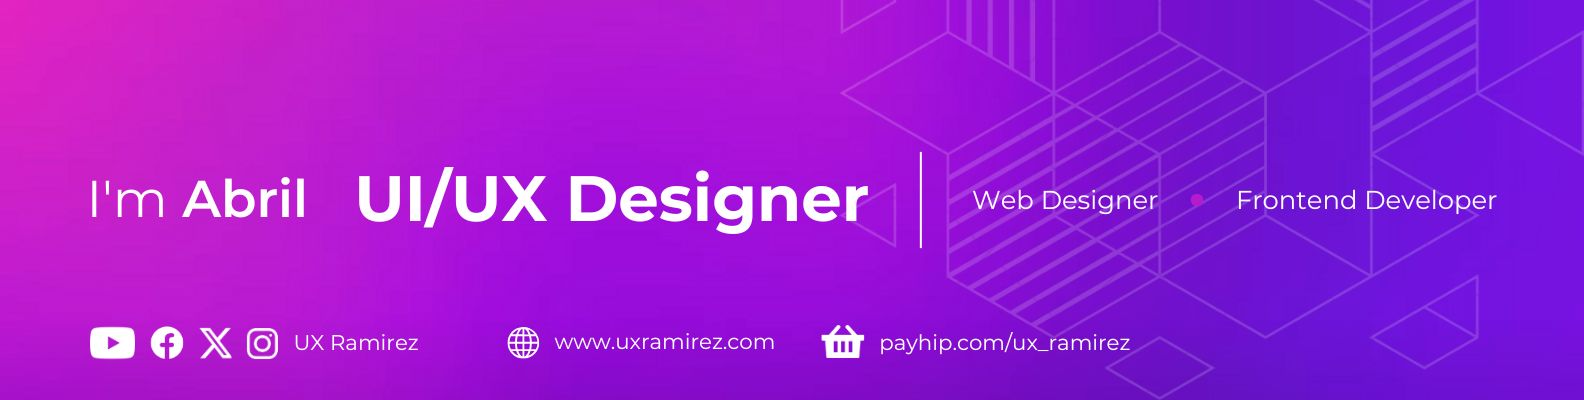
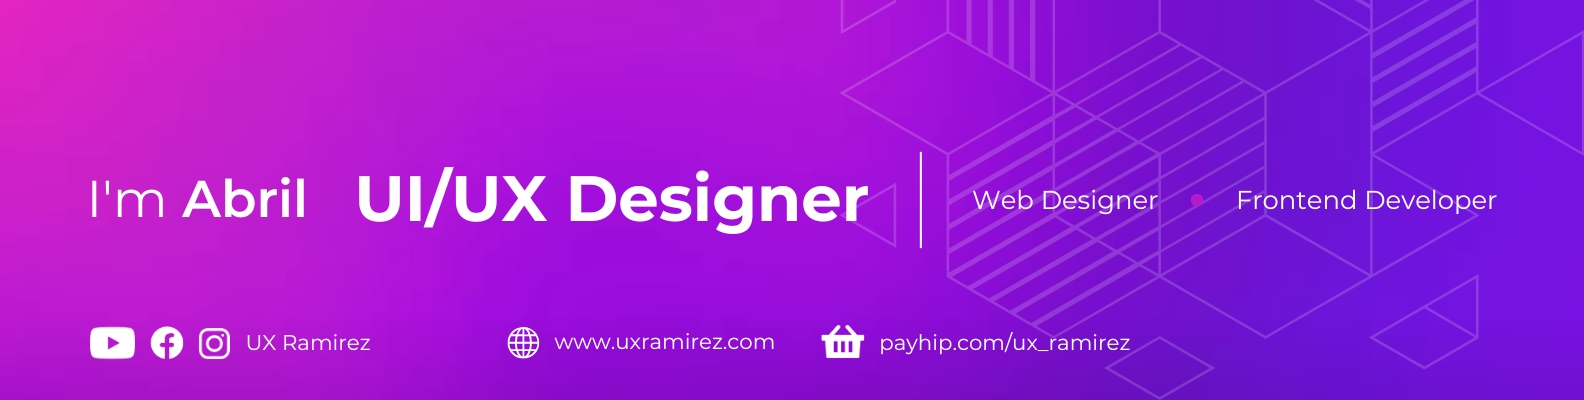
Readme updated.

Changed region(s): [[0.1237, 0.81, 0.2784, 0.9]]

diff --git a/README.md b/README.md
@@ -9,7 +9,7 @@ I am a Computer Systems Engineer, graduated from the <b> Tijuana Technological I
 I like to learn new things about programming. My hobbies are drawing, watching movies and play videogames.
 <br> Ask me anything about Figma or UI/UX topics 🖌
 
-🔵 Currently getting certified in Microsoft UX Design at Coursera.
+🔵 Currently starting on Offering my Web Design Freelance Services
 
 ## My Skills: 🥇
   
@@ -27,9 +27,11 @@ I like to learn new things about programming. My hobbies are drawing, watching m
 Or you can connect with me at: 
 
 <a href="https://www.linkedin.com/in/abril-ramirez-flores-71a26b275/" target="blank"><img align="center" src="https://img.shields.io/badge/LinkedIn-0077B5?style=for-the-badge&logo=linkedin&logoColor=white" alt="abril.ramirez.9235"/>
-<a href="https://www.behance.net/abrilramirez15" target="blank"><img align="center" src="https://img.shields.io/badge/Behance-0054F7?style=for-the-badge&logo=behance&logoColor=white" alt="Behance"/></a>
-<a href="https://dribbble.com/iscRamirezAbril" target="blank"><img align="center" src="https://img.shields.io/badge/Dribbble-EA4C89?style=for-the-badge&logo=dribbble&logoColor=white" alt="Dribbble"/></a>
-<a href="https://x.com/Eipril_0103" target="blank"><img align="center" src="https://img.shields.io/badge/X-000000?style=for-the-badge&logo=x&logoColor=white" alt="X"/></a>
+<a href="https://www.behance.net/ux_ramirez" target="blank"><img align="center" src="https://img.shields.io/badge/Behance-0054F7?style=for-the-badge&logo=behance&logoColor=white" alt="Behance"/></a>
+<a href="https://dribbble.com/ux_ramirez" target="blank"><img align="center" src="https://img.shields.io/badge/Dribbble-EA4C89?style=for-the-badge&logo=dribbble&logoColor=white" alt="Dribbble"/></a>
 
-Visit my online store: 💜 <br>
-https://uxramirez.com/
+## Online Store 🛒
+Visit my online store 💜 <br>
+Where you will find Figma & Bootstrap Templates
+
+<a href="https://payhip.com/uxramirez" target="blank"><img align="center" src="https://img.shields.io/badge/Payhip-5C6AC4.svg?style=for-the-badge&logo=Payhip&logoColor=white" alt="Payhip"/></a>
